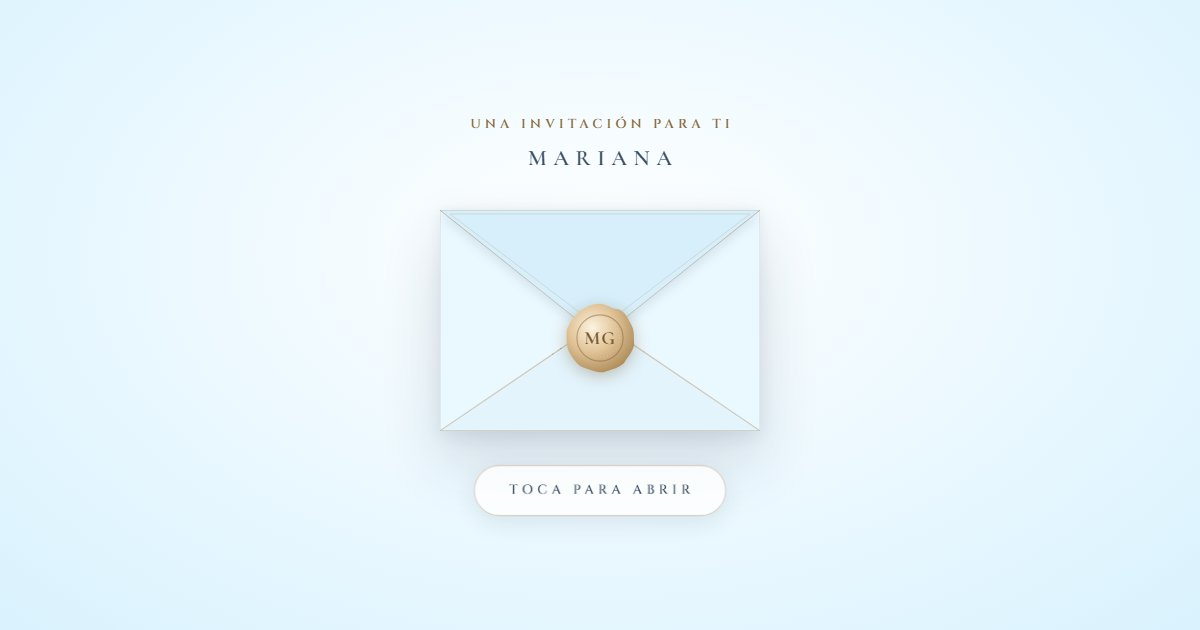
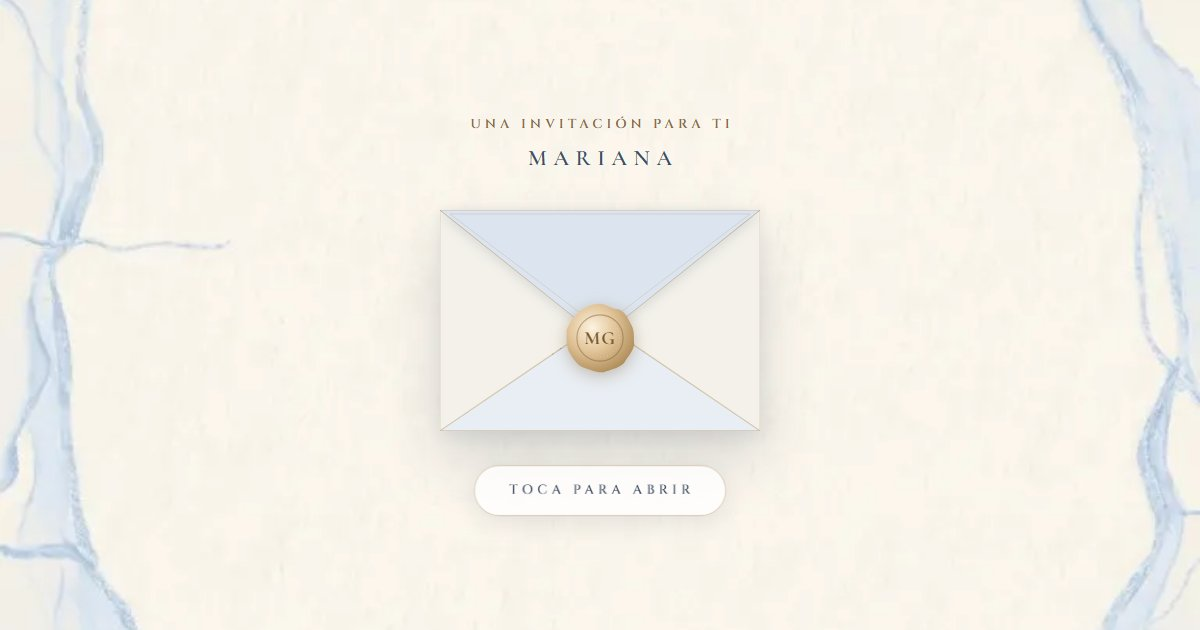
feat: fondos de tinta azul polvo/crema/champán (tintas de Lekshmy repintadas)

diff --git a/index.html b/index.html
@@ -72,13 +72,13 @@ section{position:relative;padding:72px 26px;text-align:center;}
 
 /* ---------- SOBRE ---------- */
 #envelope{position:fixed;inset:0;z-index:10000;display:flex;flex-direction:column;align-items:center;justify-content:center;gap:34px;
-  background:radial-gradient(ellipse at 50% 40%,#ffffff 0%,#eaf8ff 55%,#d9f2fd 100%);cursor:pointer;transition:opacity .9s ease;}
+  background:#f8f4ea url(ink-oval.webp) center/cover no-repeat;cursor:pointer;transition:opacity .9s ease;}
 #envelope.gone{opacity:0;pointer-events:none;}
 .env-top{text-align:center;}
 .env-top .eyebrow{margin-bottom:6px;}
 .env-top .nm{font-family:var(--serif);font-weight:600;font-size:22px;letter-spacing:.3em;text-transform:uppercase;color:var(--ink-2);padding-left:.3em;}
 .letter{position:relative;width:min(320px,82vw);aspect-ratio:1.45;perspective:1100px;}
-.letter .back{position:absolute;inset:0;border-radius:6px;background:linear-gradient(160deg,#f4fbff,#dff3fd);box-shadow:0 30px 60px rgba(34,52,74,.16),0 6px 16px rgba(34,52,74,.08);border:1px solid rgba(168,132,86,.25);}
+.letter .back{position:absolute;inset:0;border-radius:6px;background:linear-gradient(160deg,#fbf8f0,#efe8d8);box-shadow:0 30px 60px rgba(34,52,74,.16),0 6px 16px rgba(34,52,74,.08);border:1px solid rgba(168,132,86,.25);}
 .letter .card{position:absolute;left:7%;right:7%;top:8%;height:84%;background:linear-gradient(170deg,#fffef4,#fffbe6);border-radius:4px;border:1px solid rgba(168,132,86,.3);
   display:flex;flex-direction:column;align-items:center;justify-content:center;gap:4px;transition:transform 1s cubic-bezier(.2,.7,.2,1) .55s;z-index:1;}
 .letter .card b{font-family:var(--serif);font-weight:600;font-size:24px;letter-spacing:.24em;color:var(--ink);}
@@ -240,7 +240,7 @@ section{position:relative;padding:72px 26px;text-align:center;}
 .confetti{position:fixed;top:-12px;width:8px;height:12px;z-index:9000;pointer-events:none;border-radius:2px;}
 
 /* ---------- FOOTER ---------- */
-footer{position:relative;z-index:1;padding:60px 20px 120px;text-align:center;}
+footer{position:relative;z-index:1;overflow:hidden;padding:60px 20px 120px;text-align:center;}
 footer .mono{font-family:var(--serif);font-weight:600;font-size:46px;letter-spacing:.1em;}
 footer .fd{font-family:var(--caps);font-size:13px;letter-spacing:.3em;color:var(--ink-2);margin-top:6px;}
 footer .credit{display:inline-block;margin-top:26px;font-family:var(--serif);font-weight:600;font-size:16px;color:var(--ink-2);text-decoration:none;}
@@ -286,6 +286,15 @@ footer .credit{display:inline-block;margin-top:26px;font-family:var(--serif);fon
 .nf-list a.cur{font-style:italic;color:var(--accent);}
 .nf-foot{text-align:center;font-family:var(--caps);font-size:12px;letter-spacing:.26em;color:var(--ink-2);}
 
+
+/* Fondos de tinta (tintas de Lekshmy repintadas a azul polvo/crema/champán) */
+.ink{position:absolute;inset:0;z-index:0;pointer-events:none;background-size:cover;background-position:center;
+  -webkit-mask-image:linear-gradient(to bottom,transparent 0,#000 90px,#000 calc(100% - 90px),transparent 100%);
+          mask-image:linear-gradient(to bottom,transparent 0,#000 90px,#000 calc(100% - 90px),transparent 100%);}
+.ink-top-only{-webkit-mask-image:linear-gradient(to bottom,#000 0,#000 calc(100% - 120px),transparent 100%);mask-image:linear-gradient(to bottom,#000 0,#000 calc(100% - 120px),transparent 100%);}
+.ink-flip{transform:scaleY(-1);}
+section>*:not(.ink):not(.hero-glow):not(.hero-frame),footer>*:not(.ink){position:relative;z-index:1;}
+
 @media (prefers-reduced-motion:reduce){
   *,*::before,*::after{animation-duration:.01ms!important;animation-iteration-count:1!important;transition-duration:.2s!important;}
 }
@@ -314,12 +323,12 @@ footer .credit{display:inline-block;margin-top:26px;font-family:var(--serif);fon
     <div class="back"></div>
     <div class="card"><span>XV AÑOS</span><b>MARIANA</b><span>15 · IV · 2027</span></div>
     <div class="front"><svg viewBox="0 0 320 220" preserveAspectRatio="none" aria-hidden="true">
-      <path d="M0 220 L160 112 L320 220 Z" fill="#e3f4fd" stroke="rgba(168,132,86,.35)" stroke-width="1"/>
-      <path d="M0 0 L0 220 L150 118 Z" fill="#eaf8ff" stroke="rgba(168,132,86,.25)" stroke-width="1"/>
-      <path d="M320 0 L320 220 L170 118 Z" fill="#eaf8ff" stroke="rgba(168,132,86,.25)" stroke-width="1"/>
+      <path d="M0 220 L160 112 L320 220 Z" fill="#e9eef4" stroke="rgba(168,132,86,.35)" stroke-width="1"/>
+      <path d="M0 0 L0 220 L150 118 Z" fill="#f3f1ea" stroke="rgba(168,132,86,.25)" stroke-width="1"/>
+      <path d="M320 0 L320 220 L170 118 Z" fill="#f3f1ea" stroke="rgba(168,132,86,.25)" stroke-width="1"/>
     </svg></div>
     <div class="flap"><svg viewBox="0 0 320 128" preserveAspectRatio="none" aria-hidden="true">
-      <path d="M0 0 L320 0 L160 128 Z" fill="#d6effb" stroke="rgba(168,132,86,.4)" stroke-width="1"/>
+      <path d="M0 0 L320 0 L160 128 Z" fill="#dce5ef" stroke="rgba(168,132,86,.4)" stroke-width="1"/>
       <path d="M10 4 L310 4 L160 118 Z" fill="none" stroke="rgba(168,132,86,.3)" stroke-width=".7"/>
     </svg></div>
     <div class="seal"><svg viewBox="0 0 80 80" aria-hidden="true">
@@ -350,6 +359,7 @@ footer .credit{display:inline-block;margin-top:26px;font-family:var(--serif);fon
 
   <!-- PORTADA -->
   <section class="hero" id="inicio" data-nav="Inicio">
+    <div class="ink ink-top-only" style="background-image:url(ink-top.webp);background-position:top center"></div>
     <div class="hero-glow" aria-hidden="true"></div>
     <div class="hero-frame" aria-hidden="true"></div>
     <div class="hero-inner" id="heroInner">
@@ -374,6 +384,7 @@ footer .credit{display:inline-block;margin-top:26px;font-family:var(--serif);fon
 
   <!-- MENSAJE -->
   <section id="mensaje" data-nav="Mensaje">
+    <div class="ink" style="background-image:url(ink-oval.webp)"></div>
     <div class="letter-card fx-letter">
       <div class="eyebrow">Con todo nuestro cariño</div>
       <p class="quote split-words">Hay momentos que soñamos toda la vida&hellip; y hay días que marcan el inicio de una nueva historia.</p>
@@ -384,6 +395,7 @@ footer .credit{display:inline-block;margin-top:26px;font-family:var(--serif);fon
 
   <!-- CUENTA REGRESIVA -->
   <section id="cuenta" data-nav="Cuenta">
+    <div class="ink" style="background-image:url(ink-hero.webp);opacity:.7"></div>
     <div class="eyebrow">Faltan</div>
     <h2 class="sec-title split-title">Cuenta regresiva</h2>
     <div class="cd" id="cd">
@@ -428,6 +440,7 @@ footer .credit{display:inline-block;margin-top:26px;font-family:var(--serif);fon
 
   <!-- DRESS CODE -->
   <section id="vestimenta" data-nav="Vestimenta">
+    <div class="ink" style="background-image:url(ink-corner.webp);opacity:.85"></div>
     <div class="eyebrow">Etiqueta</div>
     <h2 class="sec-title split-title">Código de vestimenta</h2>
     <div class="dc-note">Formal</div>
@@ -464,6 +477,7 @@ footer .credit{display:inline-block;margin-top:26px;font-family:var(--serif);fon
 
   <!-- ÁLBUM -->
   <section id="album" data-nav="Álbum">
+    <div class="ink" style="background-image:url(ink-hero.webp);opacity:.6"></div>
     <div class="eyebrow">Recuerdos</div>
     <h2 class="sec-title split-title">Álbum compartido</h2>
     <div class="album-card">
@@ -495,6 +509,7 @@ footer .credit{display:inline-block;margin-top:26px;font-family:var(--serif);fon
 
   <!-- RSVP -->
   <section id="rsvp" data-nav="Confirmar">
+    <div class="ink" style="background-image:url(ink-footer.webp);opacity:.75"></div>
     <div class="eyebrow">R.S.V.P.</div>
     <h2 class="sec-title split-title">Confirma tu asistencia</h2>
     <div class="rsvp-card">
@@ -538,6 +553,7 @@ footer .credit{display:inline-block;margin-top:26px;font-family:var(--serif);fon
 </div>
 
 <footer>
+  <div class="ink ink-flip" style="background-image:url(ink-top.webp);-webkit-mask-image:linear-gradient(to bottom,transparent,#000 120px);mask-image:linear-gradient(to bottom,transparent,#000 120px)"></div>
   <div class="mono foil">MG</div>
   <div class="fd">Mariana · XV años · 2027</div>
   <a class="credit" href="https://www.instagram.com/elysium.invitaciones" target="_blank" rel="noopener">@elysium.invitaciones</a>
